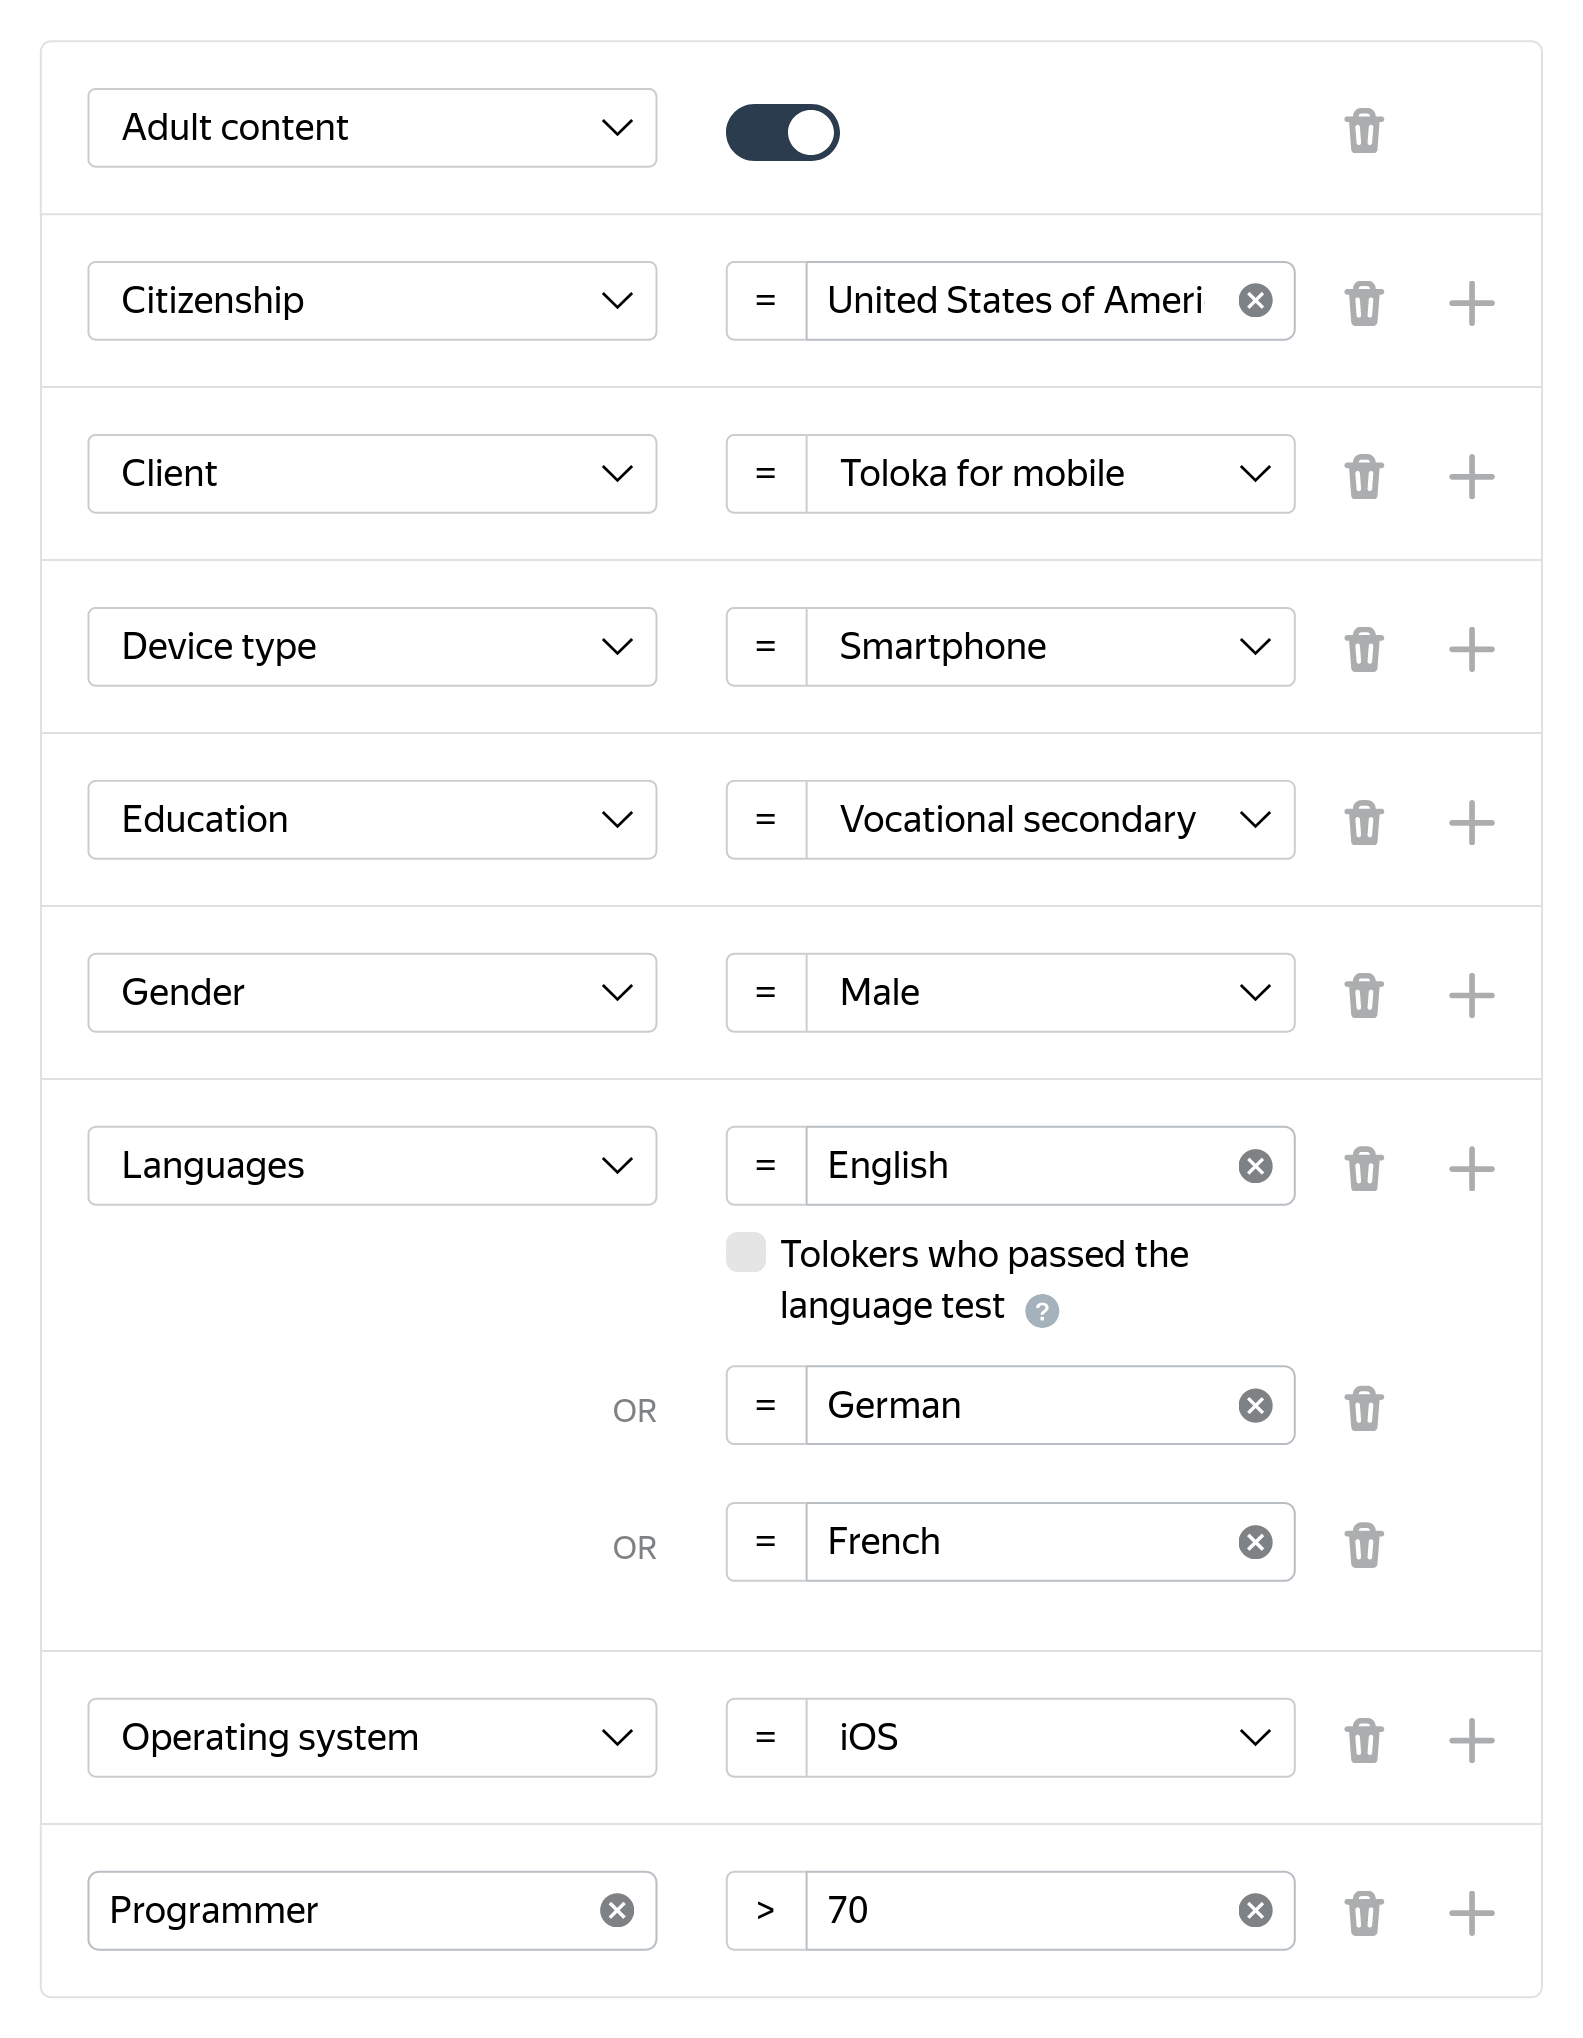
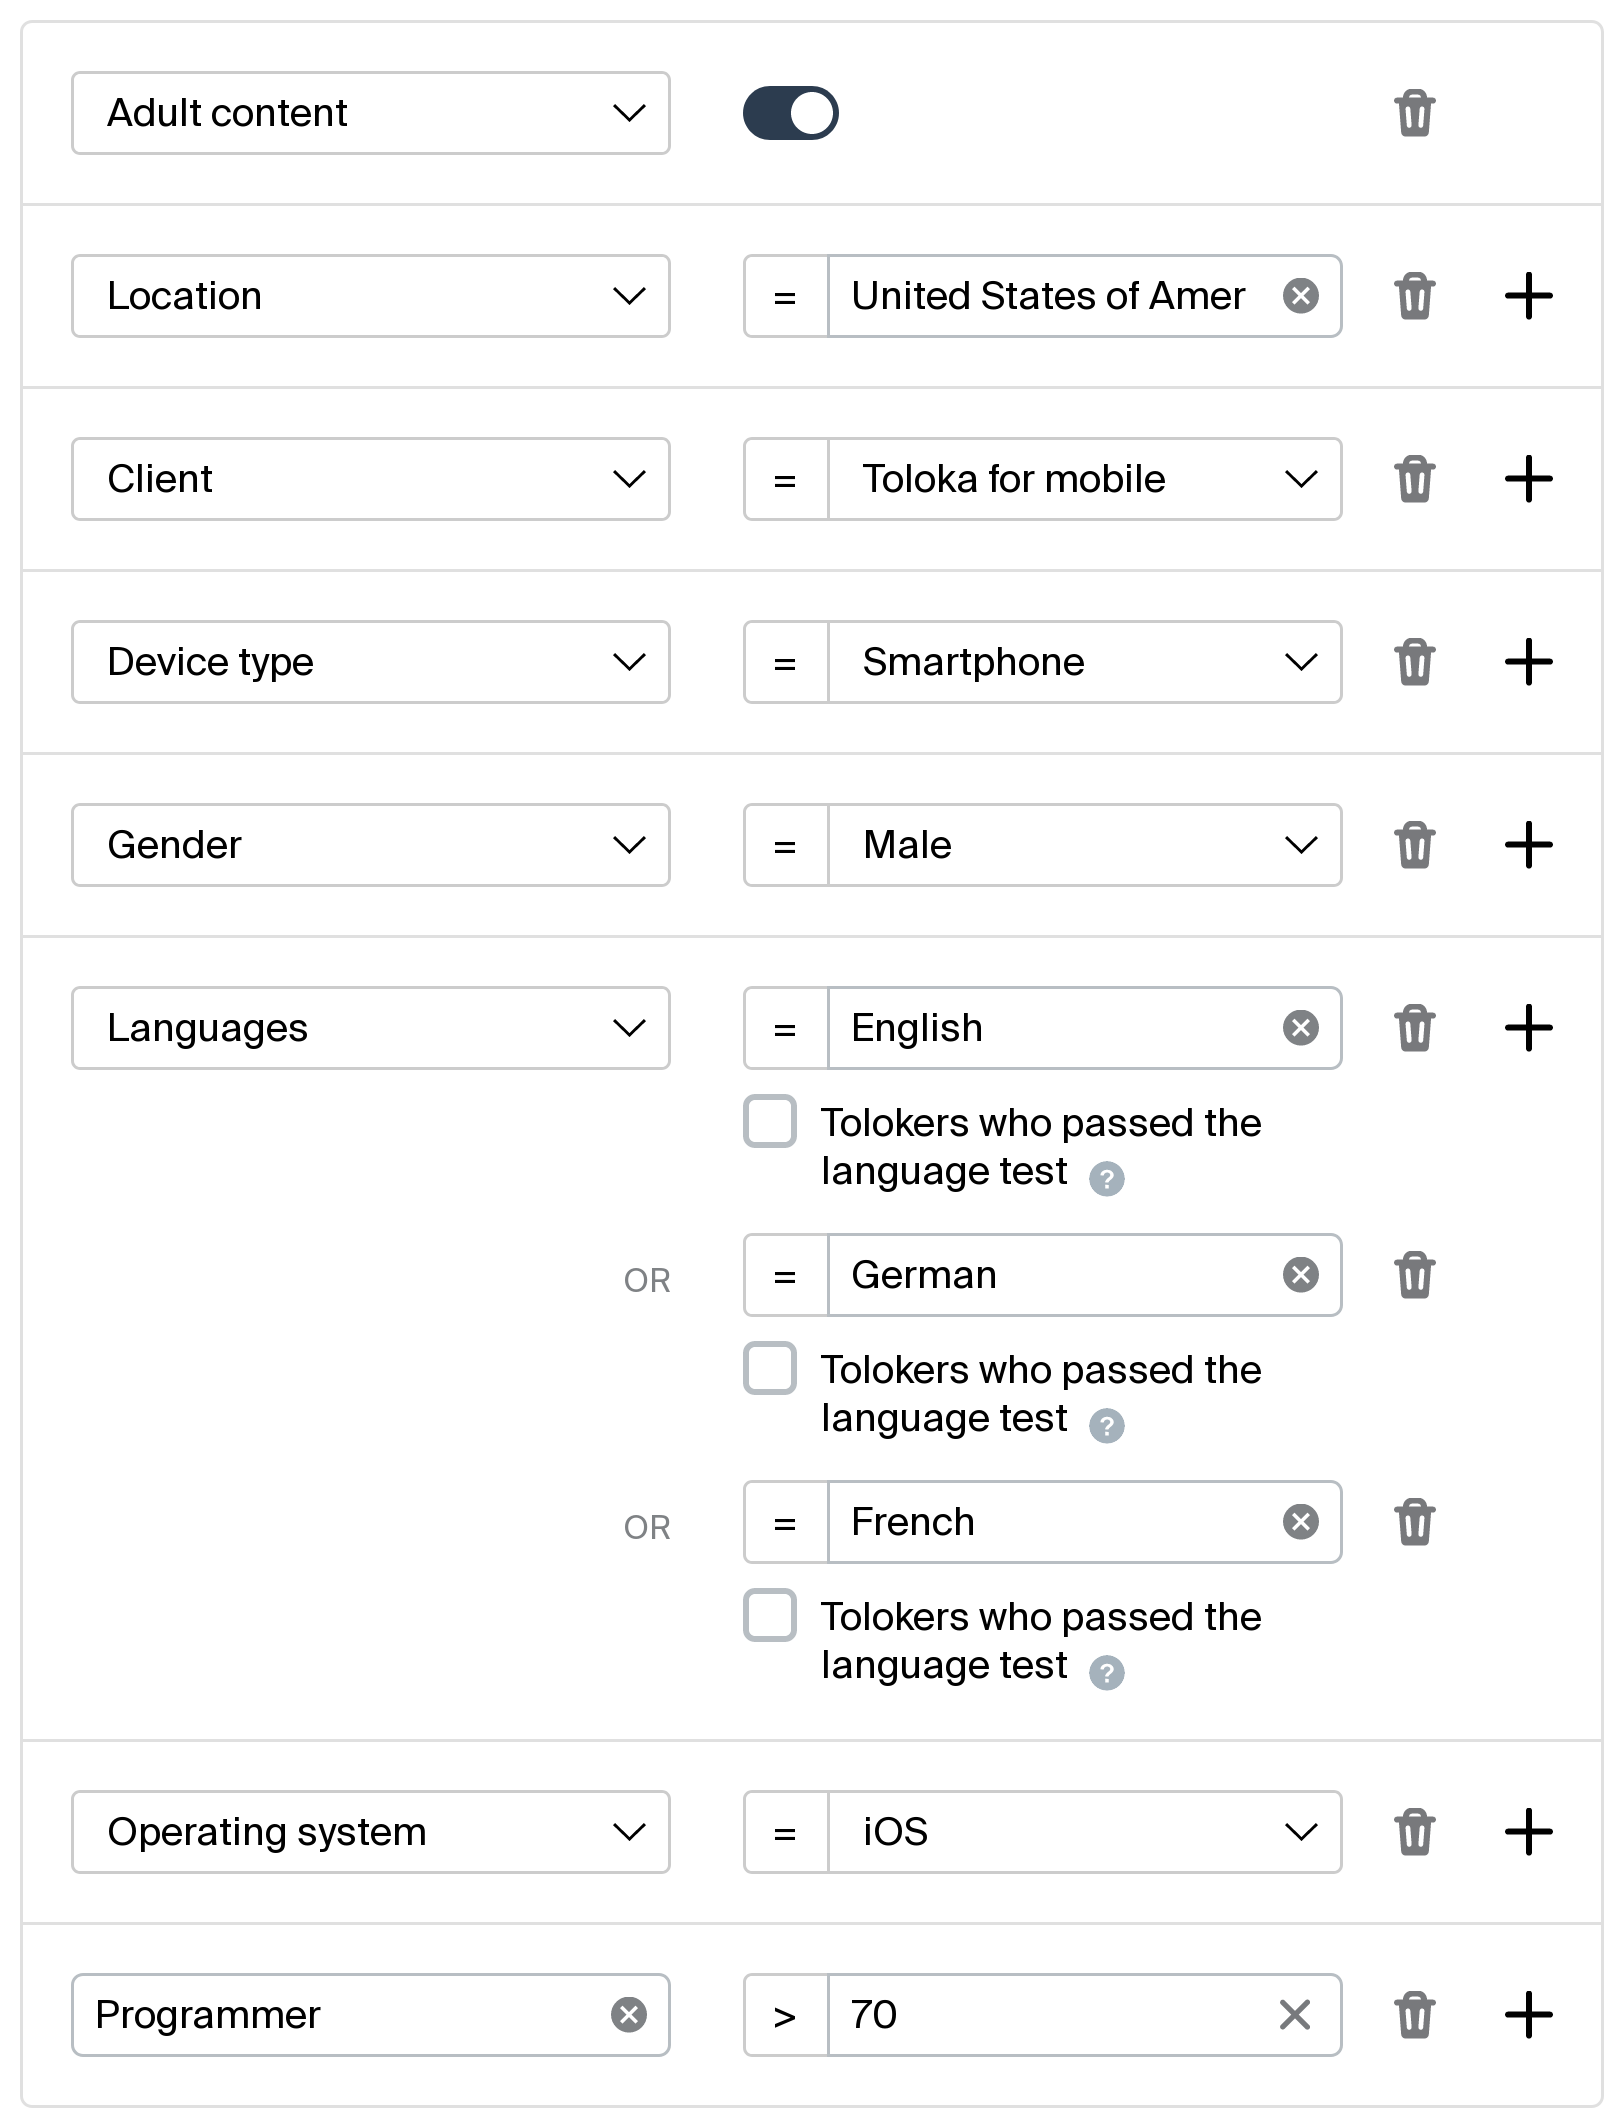
Minor fixes for pool filters

diff --git a/en/toloka-kit/recipes/filter-tolokers.md b/en/toloka-kit/recipes/filter-tolokers.md
@@ -43,7 +43,7 @@ new_pool = toloka.pool.Pool(
 For this recipe, we use the following filters:
 
 - **Adult content** ([AdultAllowed](../reference/toloka.client.filter.AdultAllowed.md) filter class): The pool tasks with the adult content will only be shown to Tolokers who have agreed to see them.
-- **Citizenship** ([Citizenship](../reference/toloka.client.filter.Citizenship.md) filter class): The tasks will be shown only to the Tolokers from the countries specified in the filter.
+- **Location** ([Citizenship](../reference/toloka.client.filter.Citizenship.md) filter class): The tasks will be shown only to the Tolokers from the countries specified in the filter.
 - **Client** ([ClientType](../reference/toloka.client.filter.ClientType.md) filter class): The pool tasks will be available in the selected Toloka client, in our case, in the mobile app.
 - **Device type** ([DeviceCategory](../reference/toloka.client.filter.DeviceCategory.md) filter class): The pool tasks will be available to the Tolokers with the specified devices.
 - **Gender** ([Gender](../reference/toloka.client.filter.Gender.md) filter class): The pool tasks will be available to the Tolokers with the specified gender.
